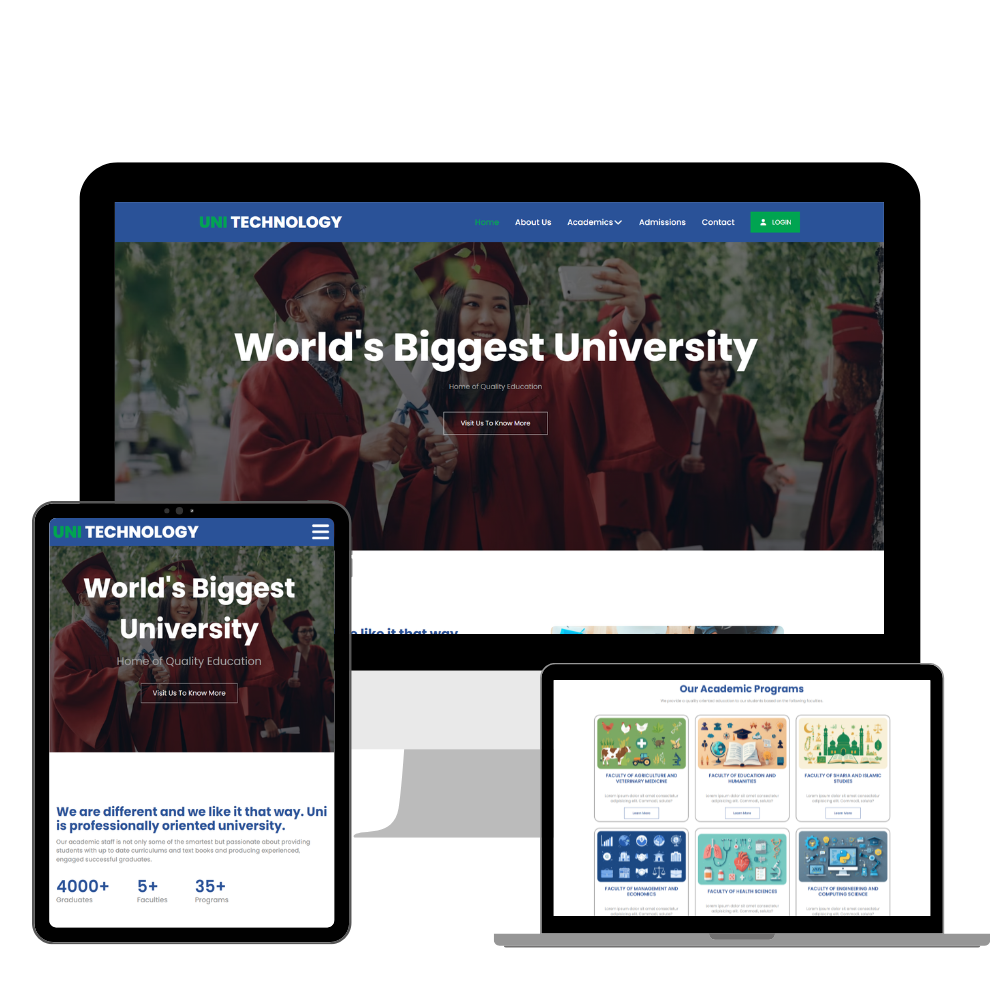
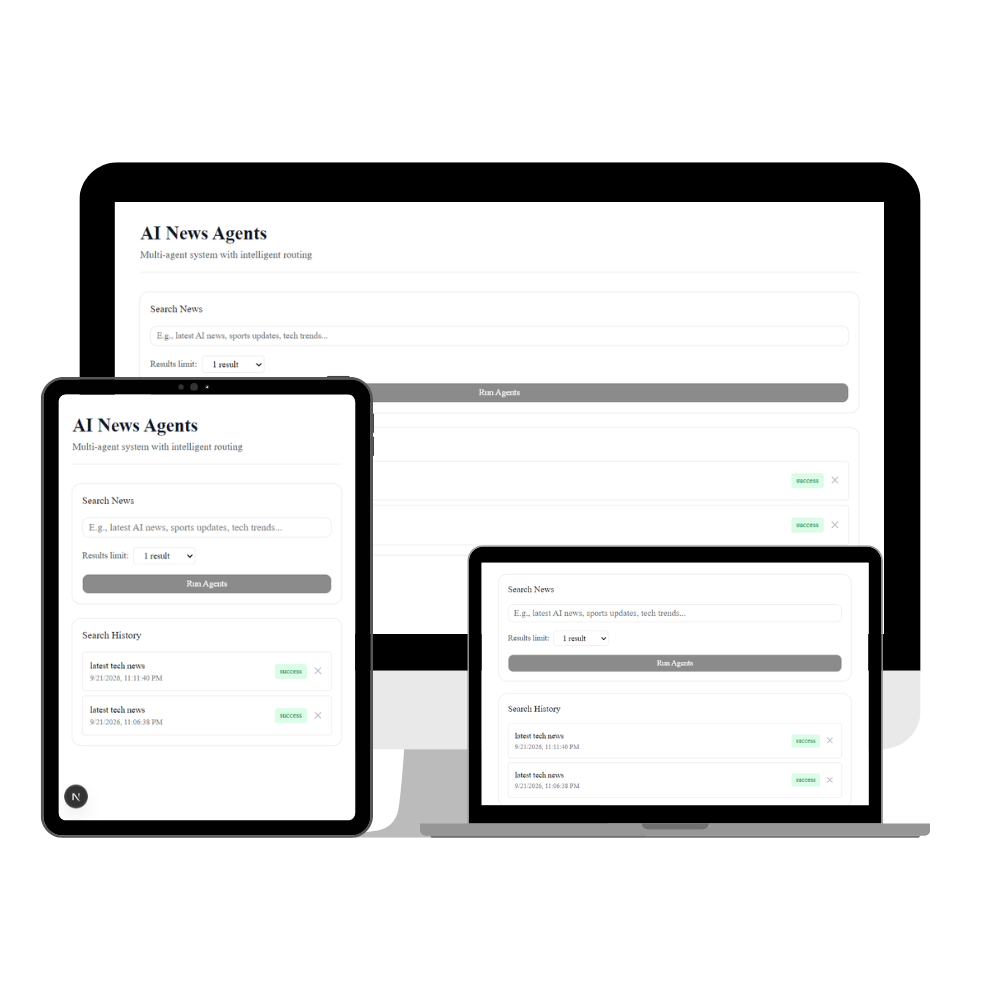
Add live demo link for Multi-Agent System project

diff --git a/src/components/Projects.jsx b/src/components/Projects.jsx
@@ -189,7 +189,7 @@ const Projects = () => {
         "A Next.js application that orchestrates multiple LLM agents through Inngest's durable workflows. Agents plan, delegate to tools and hand results back to the user, with retry-safe execution built in.",
       tech: ["Next.js", "TypeScript", "Inngest", "LLM Tool Calling", "Tailwind CSS"],
       githubUrl: "https://github.com/karimsaabir9/multi-agent-system",
-      liveUrl: null,
+      liveUrl: "https://multi-agent-system-mocha.vercel.app/",
     },
   ];
 
